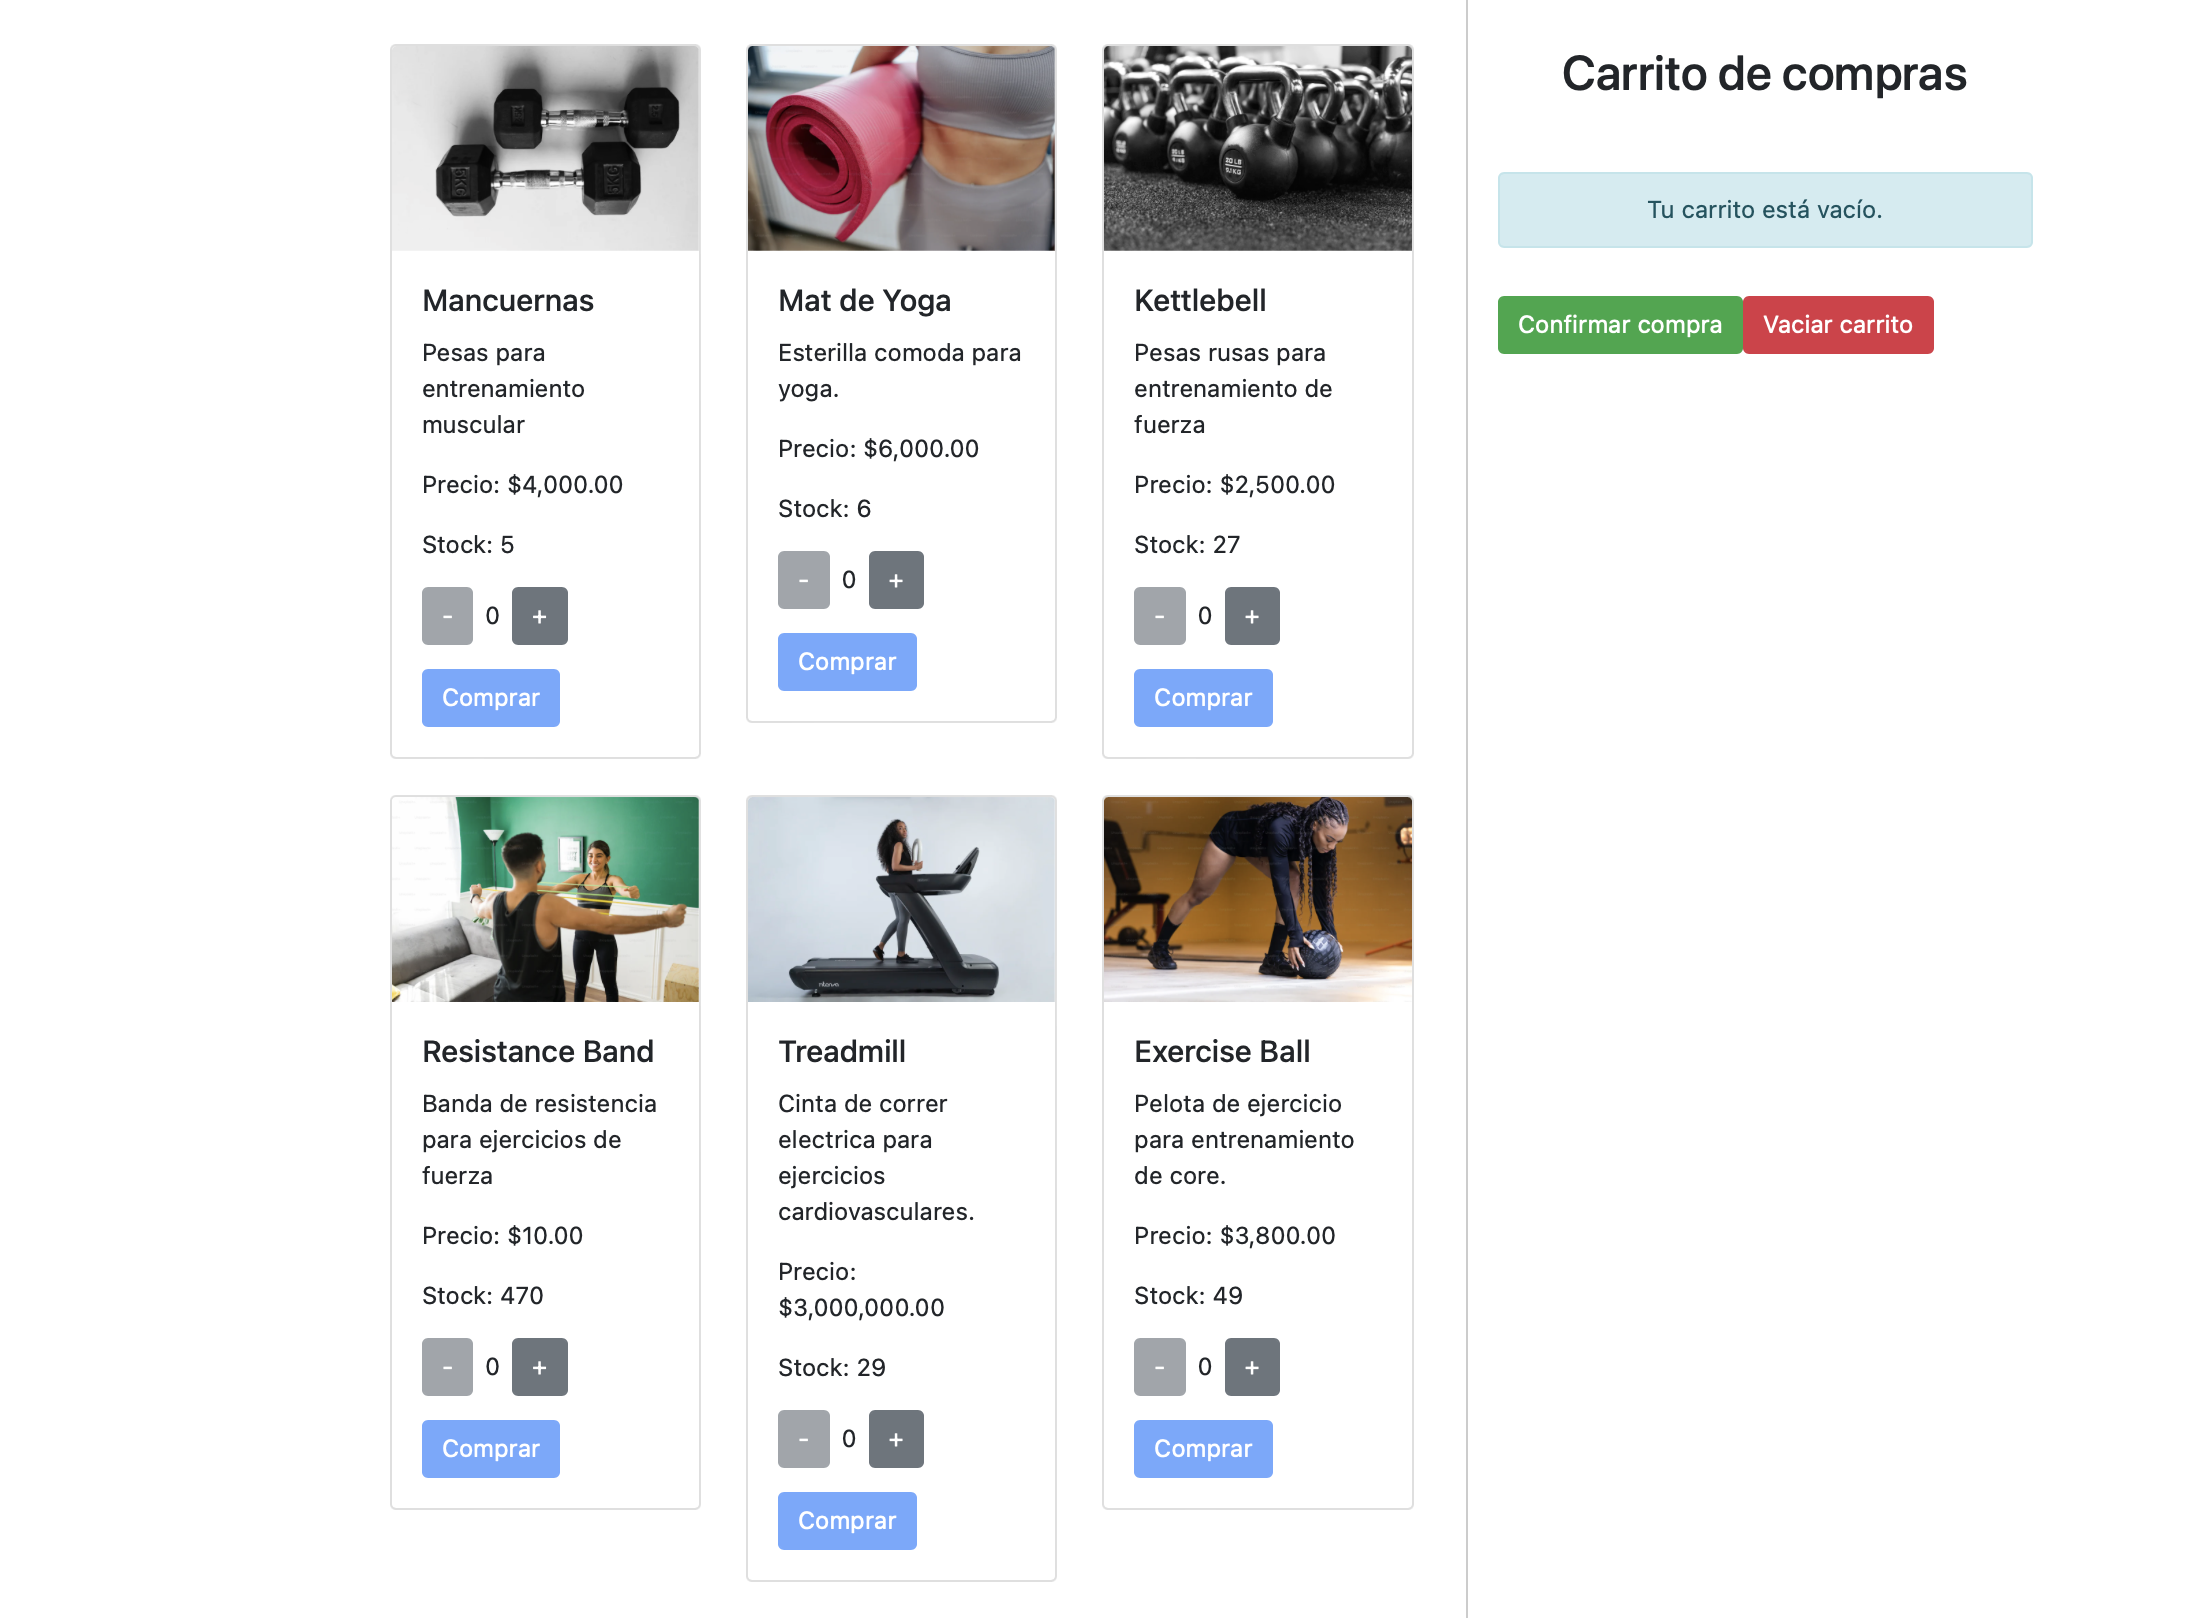
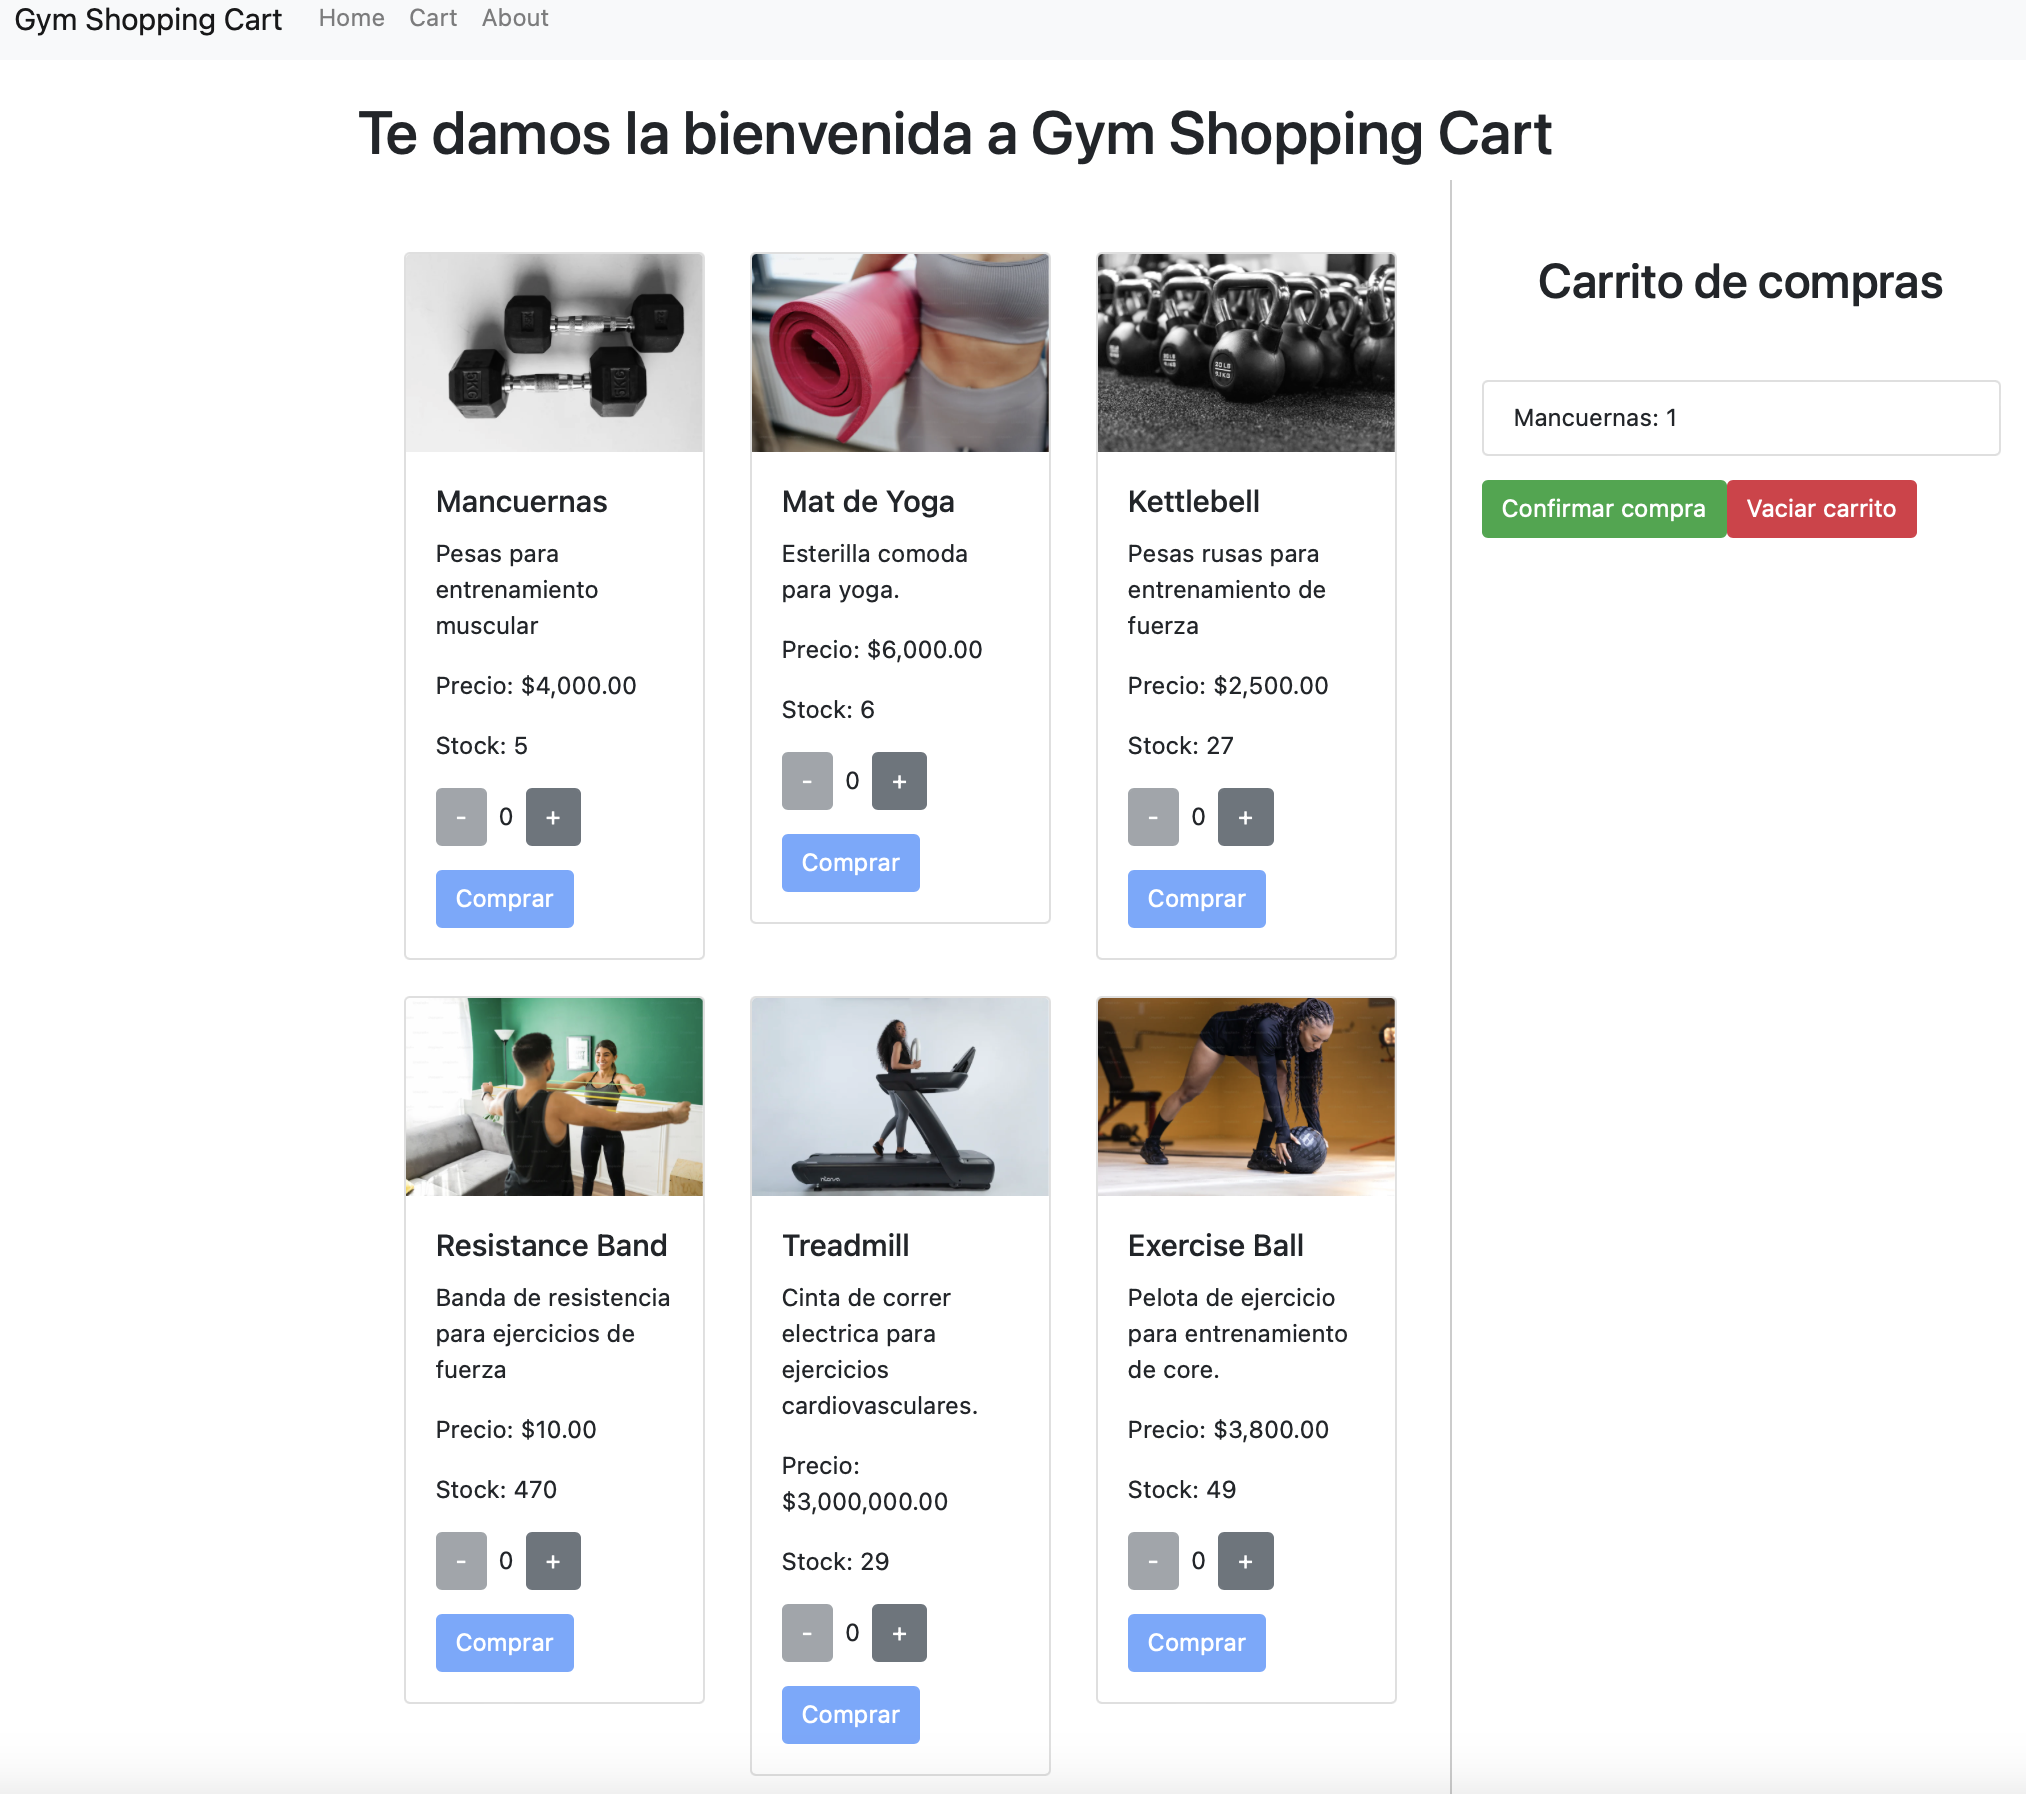
agrego about

Changed region(s): [[0.1555, 0.0, 0.964, 0.9877], [0.0, 0.0, 0.1244, 0.0309]]

diff --git a/src/app/app.routes.ts b/src/app/app.routes.ts
@@ -1,18 +1,17 @@
-// import { Routes } from '@angular/router';
-// import { ProductListComponent } from './product-list/product-list.component';
-// import { CartComponent } from './cart/cart.component';
-
-// export const routes: Routes = [
-//   { path: '', component: ProductListComponent },
-//   { path: 'cart', component: CartComponent }
-// ];
-
-
-import { Routes } from '@angular/router';
+import { NgModule } from '@angular/core';
+import { Routes, RouterModule } from '@angular/router';
 import { HomeComponent } from './home/home.component';
 import { CartComponent } from './cart/cart.component';
+import { AboutComponent } from './about/about.component';
 
 export const routes: Routes = [
   { path: '', component: HomeComponent },
-  { path: 'cart', component: CartComponent }
+  { path: 'cart', component: CartComponent },
+  { path: 'about', component: AboutComponent}
 ];
+
+@NgModule({
+  imports: [RouterModule.forRoot(routes)],
+  exports: [RouterModule]
+})
+export class AppRoutingModule {}

diff --git a/src/app/app.component.html b/src/app/app.component.html
@@ -1,1 +1,23 @@
-<router-outlet></router-outlet>
+<nav class="navbar navbar-expand-lg navbar-light bg-light">
+    <a class="navbar-brand" href="#">Gym Shopping Cart</a>
+    <button class="navbar-toggler" type="button" data-toggle="collapse" data-target="#navbarNav" aria-controls="navbarNav" aria-expanded="false" aria-label="Toggle navigation">
+      <span class="navbar-toggler-icon"></span>
+    </button>
+    <div class="collapse navbar-collapse" id="navbarNav">
+      <ul class="navbar-nav mr-auto">
+        <li class="nav-item">
+          <a class="nav-link" routerLink="/">Home</a>
+        </li>
+        <li class="nav-item">
+          <a class="nav-link" routerLink="/cart">Cart</a>
+        </li>
+        <li class="nav-item">
+          <a class="nav-link" routerLink="/about">About</a>
+        </li>
+      </ul>
+    </div>
+  </nav>
+  <div class="container mt-4">
+    <router-outlet></router-outlet>
+  </div>
+  

diff --git a/src/app/about/about.component.spec.ts b/src/app/about/about.component.spec.ts
@@ -1,0 +1,23 @@
+import { ComponentFixture, TestBed } from '@angular/core/testing';
+
+import { AboutComponent } from './about.component';
+
+describe('AboutComponent', () => {
+  let component: AboutComponent;
+  let fixture: ComponentFixture<AboutComponent>;
+
+  beforeEach(async () => {
+    await TestBed.configureTestingModule({
+      imports: [AboutComponent]
+    })
+    .compileComponents();
+    
+    fixture = TestBed.createComponent(AboutComponent);
+    component = fixture.componentInstance;
+    fixture.detectChanges();
+  });
+
+  it('should create', () => {
+    expect(component).toBeTruthy();
+  });
+});

diff --git a/src/app/about/about.component.html b/src/app/about/about.component.html
@@ -1,0 +1,6 @@
+<div class="container">
+    <h1>About Us</h1>
+    <p>Lorem ipsum dolor sit amet consectetur adipisicing elit. Esse corrupti omnis facilis fugit praesentium quaerat voluptatibus, recusandae itaque, vero dolor impedit qui a quisquam, molestiae nihil iure sit fuga magnam..</p>
+    <p>Lorem ipsum dolor sit amet consectetur adipisicing elit. Eligendi libero odio rerum tempore non necessitatibus. Impedit adipisci voluptatibus, obcaecati quos dolor eius explicabo optio? Atque vel odit soluta laborum repellat.</p>
+  </div>
+  

diff --git a/src/app/about/about.component.ts b/src/app/about/about.component.ts
@@ -1,0 +1,12 @@
+import { Component } from '@angular/core';
+
+@Component({
+  selector: 'app-about',
+  standalone: true,
+  imports: [],
+  templateUrl: './about.component.html',
+  styleUrl: './about.component.css'
+})
+export class AboutComponent {
+
+}
